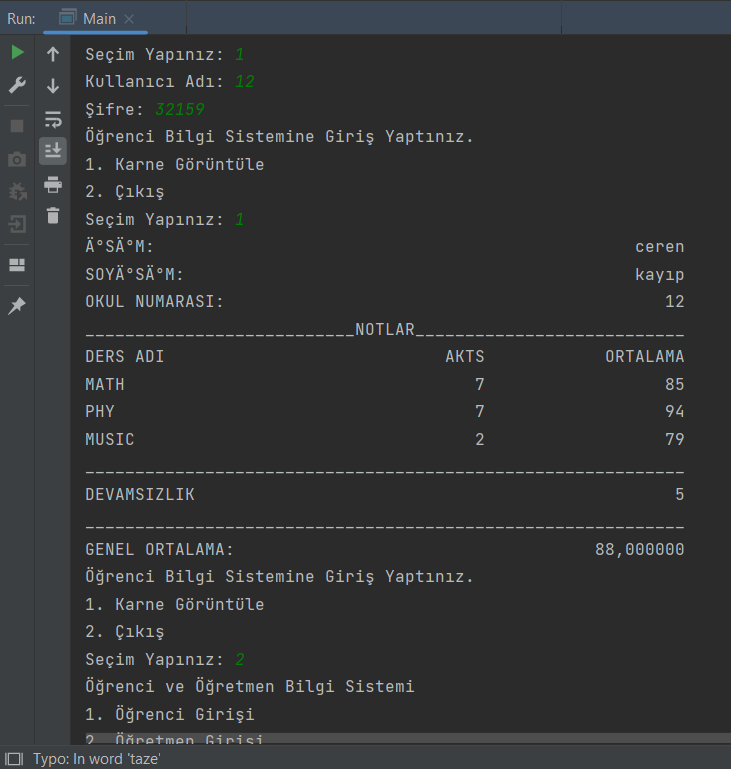
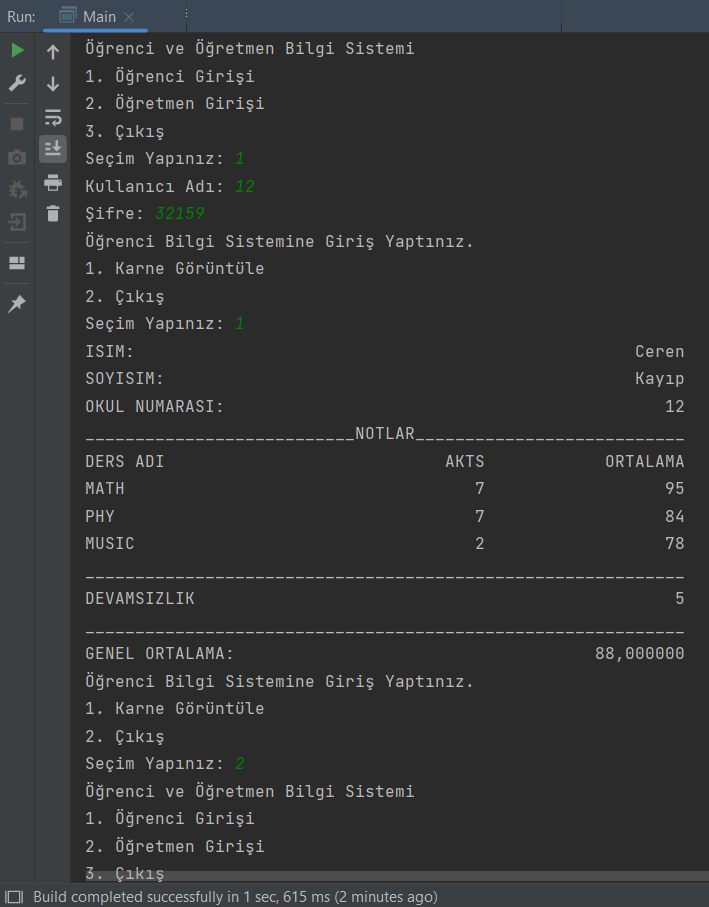
Edit readme.md

diff --git a/src/Student.java b/src/Student.java
@@ -27,8 +27,8 @@ public class Student {
     }
 
     public void showTranscript() {
-        System.out.printf("%-30s%30s\n", "İSİM:", s_name);
-        System.out.printf("%-30s%30s\n", "SOYİSİM:", s_surname);
+        System.out.printf("%-30s%30s\n", "ISIM:", s_name);
+        System.out.printf("%-30s%30s\n", "SOYISIM:", s_surname);
         System.out.printf("%-30s%30d\n", "OKUL NUMARASI:", s_id);
         System.out.println("___________________________NOTLAR___________________________");
         System.out.printf("%-20s%20s%20s\n", "DERS ADI", "AKTS", "ORTALAMA");
